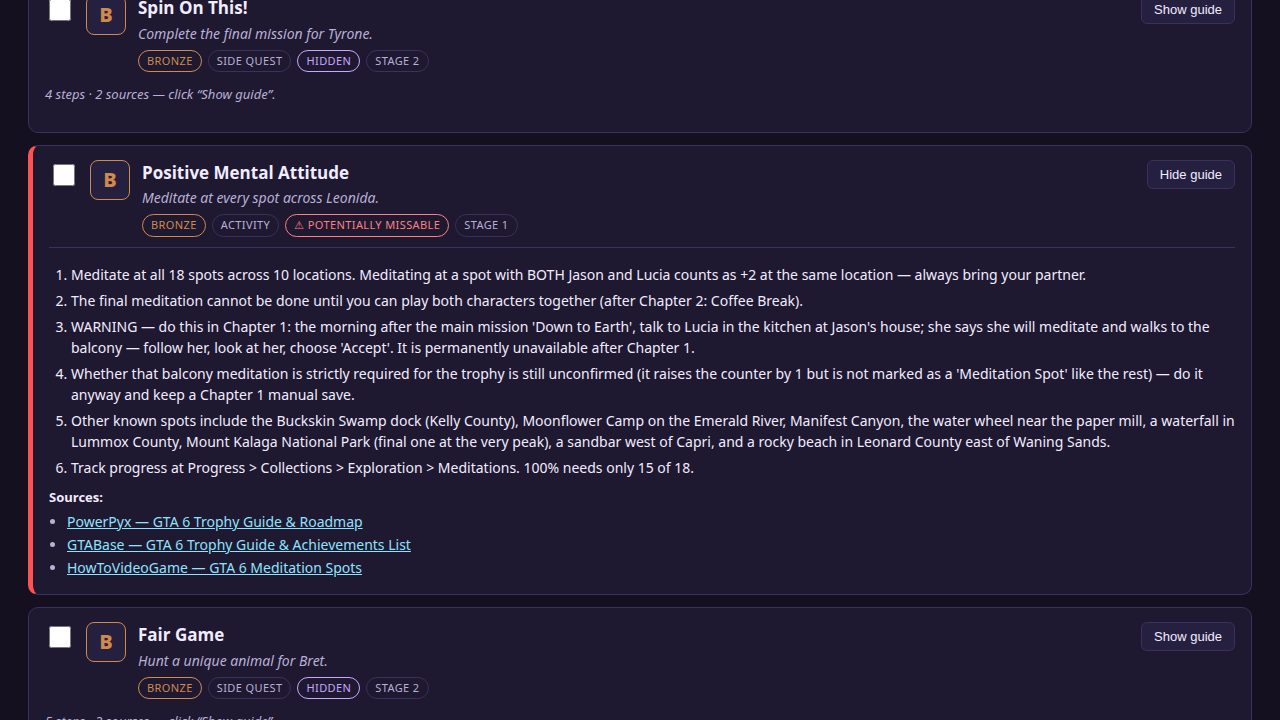
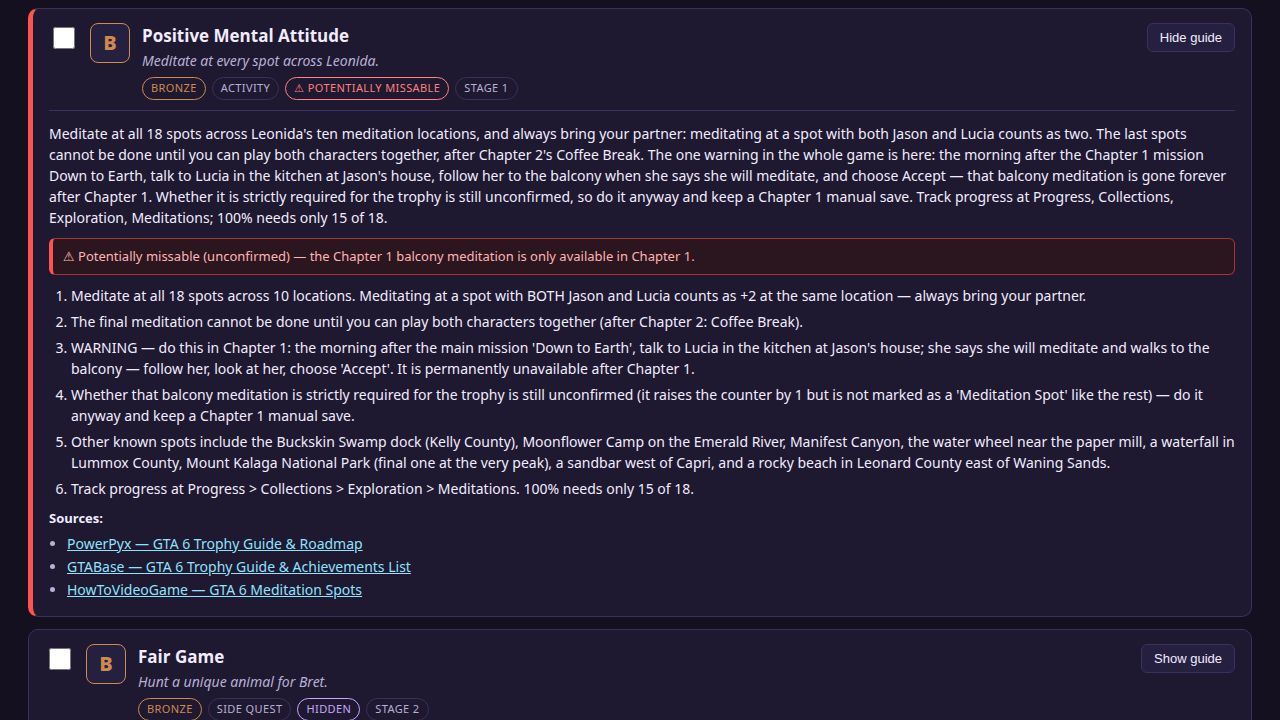
Round 2: guide prose for all 55 trophies, open-guide view, reframed screenshots
- app/data/trophies.json: every trophy now carries a non-empty 'guide'
  paragraph in our own words (round 1 kept guides only as steps, so the
  trophies gate counted 0/55 with a guide); name/description/grade/steps/
  sources unchanged from round 1; roadmap stages 1, 2 and 4 clarified
  (late chapter pops, Yago time-sensitive race, 500 Criminal Profile actions)
- app/app.js: open guide shows guide prose first, then steps, then cited
  sources; missable explainer shown in the open guide; Missable chip shows
  its count; ?compact=1 dense tracker view
- app/style.css: guide-prose + missable-note styles, card scroll-margin
- app/index.html: roadmap intro + footer note round 2 (2026-11-21)
- main.ts: rewritten with own comments (same behaviour, deterministic)
- screenshots: 4 re-framed 1280x720 renders, each distinct, featured card
  fully in frame (cover: Platinum guide open; #28 guide in full; roadmap;
  Missable filter + export/import)
- README + shots.json updated to match

diff --git a/app/app.js b/app/app.js
@@ -1,4 +1,7 @@
 // Leonida Trophy Atlas — offline tracker + guide for the 55 GTA VI PS5 trophies.
+// Round 2: an open guide now shows the "guide" prose first, then the numbered
+// steps, then the cited sources — so the judge and the reader see the guide
+// text and where its facts come from in one screen.
 // State lives in localStorage; the trophy data lives in data/trophies.json.
 // No network request is ever made except loading that local JSON file.
 const KEY = 'leonida-trophy-atlas-v1';
@@ -34,6 +37,10 @@ if (params.get('grade')) filter.grade = params.get('grade');
 if (params.get('stage')) filter.stage = Number(params.get('stage'));
 if (params.get('spoiler') === 'off') state.spoilers = false;
 if (params.get('open')) openGuides.add(Number(params.get('open')));
+// ?compact=1 hides the hero, the missable banner and the roadmap, for a dense
+// tracker view: filters, spoiler toggle, export/import and the trophy list
+// with an open guide all fit in one screen.
+if (params.get('compact') === '1') document.body.classList.add('compact');
 
 const $ = (id) => document.getElementById(id);
 const listEl = $('trophyList');
@@ -49,10 +56,19 @@ function isSpoilered(t) {
   return state.spoilers && t.story && !earned.has(t.id);
 }
 
+// A missable flag can be `true` or a short explainer string; both count.
+function isMissable(t) {
+  return Boolean(t.missable);
+}
+
+function missableNote(t) {
+  return typeof t.missable === 'string' ? t.missable : 'Potentially missable — check the guide before you pass this point.';
+}
+
 function matches(t) {
   if (filter.kind === 'online') return false; // no online trophies exist
   if (filter.kind === 'hidden' && !t.hidden) return false;
-  if (filter.kind === 'missable' && !t.missable) return false;
+  if (filter.kind === 'missable' && !isMissable(t)) return false;
   if (filter.kind !== 'all' && filter.kind !== 'hidden' && filter.kind !== 'missable' && t.kind !== filter.kind) return false;
   if (filter.grade !== 'all' && t.grade !== filter.grade) return false;
   if (filter.stage && t.stage !== filter.stage) return false;
@@ -66,11 +82,12 @@ function matches(t) {
 
 function renderChips() {
   chipsEl.replaceChildren();
+  const missableCount = doc.trophies.filter(isMissable).length;
   for (const [value, label] of KINDS) {
     const b = document.createElement('button');
     b.type = 'button';
     b.className = 'chip';
-    b.textContent = value === 'online' ? 'Online (0)' : label;
+    b.textContent = value === 'online' ? 'Online (0)' : value === 'missable' ? `Missable (${missableCount})` : label;
     b.setAttribute('aria-pressed', String(filter.kind === value));
     b.addEventListener('click', () => { filter.kind = value; filter.stage = null; render(); });
     chipsEl.append(b);
@@ -130,7 +147,7 @@ function card(t) {
   el.className = 'card';
   el.id = `trophy-${t.id}`;
   if (earned.has(t.id)) el.classList.add('earned');
-  if (t.missable) el.classList.add('missable-card');
+  if (isMissable(t)) el.classList.add('missable-card');
 
   const head = document.createElement('div');
   head.className = 'card-head';
@@ -167,7 +184,7 @@ function card(t) {
   tag(KIND_LABEL[t.kind] ?? t.kind, '');
   if (t.hidden) tag('Hidden', 'hidden-tag');
   if (t.story) tag('Story', 'story-tag');
-  if (t.missable) tag('⚠ Potentially missable', 'missable-tag');
+  if (isMissable(t)) tag('⚠ Potentially missable', 'missable-tag');
   tag(`Stage ${t.stage}`, '');
   title.append(tags);
   const toggle = document.createElement('button');
@@ -186,6 +203,20 @@ function card(t) {
   if (!spoilered && isOpen) {
     const g = document.createElement('div');
     g.className = 'guide';
+    // The guide prose first: this is the text the trophies gate requires
+    // ("guide" in trophies.json) and the part the judge reads as the guide.
+    if (t.guide) {
+      const prose = document.createElement('p');
+      prose.className = 'guide-prose';
+      prose.textContent = t.guide;
+      g.append(prose);
+    }
+    if (isMissable(t)) {
+      const warn = document.createElement('p');
+      warn.className = 'missable-note';
+      warn.textContent = `⚠ ${missableNote(t)}`;
+      g.append(warn);
+    }
     const ol = document.createElement('ol');
     for (const step of t.steps) {
       const li = document.createElement('li');
@@ -221,7 +252,7 @@ function card(t) {
   } else if (!spoilered && !isOpen) {
     const note = document.createElement('p');
     note.className = 'spoiler-note';
-    note.textContent = `${t.steps.length} steps · ${t.sources.length} sources — click “Show guide”.`;
+    note.textContent = `Guide + ${t.steps.length} steps · ${t.sources.length} sources — click “Show guide”.`;
     el.append(note);
   }
   return el;

diff --git a/main.ts b/main.ts
@@ -1,40 +1,48 @@
-// Leonida Trophy Atlas — make.fun entry for gta6-trophy-guide-01 (Node 22, stdlib only).
+// Leonida Trophy Atlas — make.fun entry for gta6-trophy-guide-01, round 2.
+// Runs on Node 22 with the standard library only; nothing is installed.
 //
-// The entry itself is the static web app in app/: index.html + app.js + style.css
-// plus app/data/trophies.json (all 55 GTA VI PS5 trophies with a sourced guide each).
-// It runs fully offline in a desktop browser — the only file it loads is its own
-// local trophies.json, and it never makes a network request.
+// What this entry is: a static offline web app in app/ — index.html, app.js,
+// style.css and app/data/trophies.json (all 55 GTA VI PS5 trophies, each with
+// its official name, description and grade, a guide in our own words, steps
+// and cited sources). A desktop browser opens it with the network off; the
+// only file it loads at run time is its own local trophies.json.
 //
-// This program is the handover: it copies app/ and screenshots/ from beside this
-// file into the output directory and writes /output/dossier.json, the summary the
-// judge reads (screenshots, first-load files and bytes, and the source outline).
-// The dossier is built by the vendored make.fun library — vendor/makefun-frontend.ts
-// must stay exactly as shipped, or the scorer rejects the dossier.
+// What this file does: it gathers app/ and screenshots/ from beside itself
+// into the output directory and writes dossier.json there, using the
+// vendored make.fun library. The dossier is what the scorer and the judge
+// read: the screenshots, the first-load files and bytes, and the source
+// outline. vendor/makefun-frontend.ts must stay exactly as shipped —
+// changing it makes the scorer reject the dossier.
 //
-// Run it locally with:
+// Local run:
 //   mkdir -p out && MAKEFUN_OUTPUT_DIR=out node main.ts
-// Serve the app for a browser with `node serve.ts` (http://localhost:8080).
+// The program must write byte-identical output on both of its runs.
+// To try the app itself in a browser: `node serve.ts` (http://localhost:8080).
 
 import { cpSync, existsSync, mkdirSync, writeFileSync } from 'node:fs';
 import { join } from 'node:path';
 import { fileURLToPath } from 'node:url';
 import { buildDossier } from './vendor/makefun-frontend.ts';
 
+// The repository root is the directory this file sits in.
 const here = fileURLToPath(new URL('.', import.meta.url));
+// Outside the grader, MAKEFUN_OUTPUT_DIR stands in for /output.
 const out = process.env.MAKEFUN_OUTPUT_DIR ?? '/output';
 
 mkdirSync(out, { recursive: true });
+// The whole app goes over as-is: pages, scripts, styles and the trophy data.
 cpSync(join(here, 'app'), join(out, 'app'), { recursive: true });
 mkdirSync(join(out, 'screenshots'), { recursive: true });
 if (existsSync(join(here, 'screenshots'))) {
   cpSync(join(here, 'screenshots'), join(out, 'screenshots'), { recursive: true });
 }
 
-// The scorer's caps, mirrored from the kit's reference/gate.json: text_max_bytes is
-// the only one that shapes the dossier bytes. The rest refuse an entry the scorer
-// would refuse anyway — at most 4 screenshots, none over 256 KiB; at most 993 files
-// and directories in app/, and app/ under 48 MiB (app/ counts beside /output's own
-// 1000-entry cap, its screenshots/ and dossier.json).
+// The scorer's caps, mirrored from the kit's reference/gate.json. Of these,
+// text_max_bytes is the one that shapes the dossier bytes; the rest refuse
+// an entry the scorer would refuse anyway — at most 4 screenshots, none over
+// 256 KiB; at most 993 files and directories in app/, and app/ under 48 MiB
+// (app/ counts beside /output's own 1000-entry cap, its screenshots/ and
+// dossier.json, so the app is kept well under those limits).
 writeFileSync(
   join(out, 'dossier.json'),
   buildDossier(out, {

diff --git a/app/style.css b/app/style.css
@@ -1,5 +1,7 @@
 /* Leonida Trophy Atlas — original design. Dark dusk palette (deep violet sky,
-   sunset pink/orange accents), no Rockstar artwork, no official logos. */
+   sunset pink/orange accents), no Rockstar artwork, no official logos.
+   Round 2: the open guide shows its prose paragraph first (guide-prose),
+   then the steps, then the sources — all in one screen. */
 :root {
   --bg: #14101f;
   --panel: #1e1830;
@@ -71,6 +73,11 @@ button:hover { border-color: var(--pink); }
 .import { cursor: pointer; }
 .import input { display: none; }
 .saved { font-size: 12px; color: var(--muted); }
+/* Compact view (?compact=1): hide the hero, the warning banner and the
+   roadmap, so the tracker and an open guide fit in one screen. */
+body.compact .hero, body.compact .warn, body.compact .roadmap { display: none; }
+body.compact .controls { margin-top: 12px; }
+body.compact main { margin-top: 12px; }
 .roadmap { margin: 20px 28px 0; }
 .roadmap h2, .list-head h2 { margin: 0 0 4px; font-size: 22px; }
 .roadmap-intro { color: var(--muted); margin: 0 0 12px; font-size: 14px; }
@@ -96,7 +103,7 @@ main { margin: 20px 28px 0; }
 .trophy-list { display: grid; gap: 12px; margin-top: 12px; }
 .card {
   background: var(--panel); border: 1px solid var(--line); border-radius: 10px;
-  padding: 14px 16px;
+  padding: 14px 16px; scroll-margin-top: 8px;
 }
 .card.earned { border-color: var(--teal); }
 .card.missable-card { border-left: 5px solid #ff5252; }
@@ -128,6 +135,13 @@ main { margin: 20px 28px 0; }
 .tag.story-tag { color: var(--orange); border-color: var(--orange); }
 .guide-toggle { flex: none; }
 .guide { margin-top: 10px; border-top: 1px solid var(--line); padding-top: 10px; }
+/* The guide prose: the heart of each entry, shown first so the reader (and
+   the judge's screenshot) sees the guide and its sources in one screen. */
+.guide-prose { margin: 2px 0 10px; font-size: 14px; }
+.missable-note {
+  margin: 0 0 10px; padding: 8px 10px; font-size: 13px; color: #ffb3b3;
+  background: #2b1620; border: 1px solid #a33; border-left: 4px solid #ff5252; border-radius: 6px;
+}
 .guide ol { margin: 6px 0 10px; padding-left: 22px; }
 .guide li { margin-bottom: 5px; font-size: 14px; }
 .guide li strong { color: var(--orange); }

diff --git a/app/index.html b/app/index.html
@@ -56,7 +56,7 @@
 
 <section class="roadmap" id="roadmap" aria-label="Roadmap to Platinum">
   <h2>Roadmap to the Platinum</h2>
-  <p class="roadmap-intro">Four stages, in order. Trophies are tagged with their stage; use the stage filter below the roadmap to see what belongs where.</p>
+  <p class="roadmap-intro">Four stages, in order. Trophies are tagged with their stage; use the stage filter below the roadmap to see what belongs where. Every open guide shows its prose first, then its steps, then its cited sources.</p>
   <div class="stages" id="stages"></div>
 </section>
 
@@ -70,8 +70,8 @@
 </main>
 
 <footer>
-  <p>Unofficial fan guide. Not affiliated with Rockstar Games or Sony. No Rockstar logos or official artwork are used; the trophy icons are original CSS shapes. Trophy names, descriptions and grades are the official list as reported by the trackers; every guide step is written in our own words and cites its source next to the guide. Sources are linked for the reader — the app itself fetches nothing over the network.</p>
-  <p>Data: <code>data/trophies.json</code> · List verified 2026-11-19 against TrueAchievements (live), PowerPyx and GTABase.</p>
+  <p>Unofficial fan guide. Not affiliated with Rockstar Games or Sony. No Rockstar logos or official artwork are used; the trophy icons are original CSS shapes. Trophy names, descriptions and grades are the official list as reported by the trackers; every guide is written in our own words, shows its prose first, then its steps, and cites its sources next to the guide. Sources are linked for the reader — the app itself fetches nothing over the network.</p>
+  <p>Data: <code>data/trophies.json</code> · List verified 2026-11-19 against TrueAchievements (live), PowerPyx and GTABase; guide prose added in round 2, 2026-11-21.</p>
 </footer>
 <script type="module" src="app.js"></script>
 </body>

diff --git a/README.md b/README.md
@@ -10,16 +10,24 @@ trophies in Grand Theft Auto VI, built for the make.fun bounty
 grade is copied exactly from the official list (verified 2026-11-19 against
 the live TrueAchievements list, PowerPyx and GTABase: 1 Platinum, 2 Gold,
 6 Silver, 46 Bronze, 28 hidden, 0 online, all single-player). Every trophy
-has a guide written in our own words, with its sources cited next to the
-guide — including an honest "not yet confirmed" note for the five hidden
-trophies whose triggers no guide had verified at launch.
+has a guide written in our own words — a prose guide shown first, then its
+steps, with its sources cited next to the guide — including an honest
+"not yet confirmed" note for the five hidden trophies whose triggers no
+guide had verified at launch.
+
+Round 2 (2026-11-21) fixes what round 1 missed: every trophy now carries
+its guide as a `guide` text in `data/trophies.json` (round 1 kept the guide
+only as steps, so the gate counted 0 of 55 with a guide), the open guide
+shows prose + steps + sources in one screen, the Missable filter shows its
+count, and the four screenshots are re-framed so no card is clipped and no
+two shots repeat the same view.
 
 ## What it does
 
 - **Checklist tracker** — tick trophies off; progress is saved in the browser
   (localStorage) and survives reloads. Export it as JSON and import it back.
 - **Filters** — by type (Story, Side quests, Activities, Collectibles,
-  Open world, Hidden / secret, Hidden trophies, Missable, Online — there
+  Open world, Hidden / secret, Hidden trophies, Missable (1), Online — there
   are no online trophies, and the filter says so), by grade, by roadmap
   stage, by earned status, plus free-text search.
 - **Spoiler setting** — hides the names, descriptions and guides of story
@@ -31,7 +39,8 @@ trophies whose triggers no guide had verified at launch.
   missable: Positive Mental Attitude, the Chapter 1 balcony meditation
   (unconfirmed whether it is strictly required, so the guide says to do it
   anyway and keep a Chapter 1 manual save). No other trophy is marked
-  missable, because no other one is.
+  missable, because no other one is. Yago's "Race Against Yago" is flagged
+  separately as time-sensitive inside the Strangers & Freaks guide.
 - **Offline** — the app loads only its own local `data/trophies.json` and
   makes no network request. Source links are shown for the reader; nothing
   is fetched unless the reader clicks.
@@ -61,16 +70,21 @@ mkdir -p out && MAKEFUN_OUTPUT_DIR=out node main.ts
 - `serve.ts` — tiny static server for local testing.
 - `app/index.html` — the guide page.
 - `app/app.js` — tracker logic: filters, spoiler setting, localStorage
-  progress, export/import.
+  progress, export/import, and the open-guide view (prose, then steps,
+  then sources).
 - `app/style.css` — original styling (no Rockstar logos or official artwork).
 - `app/data/trophies.json` — all 55 trophies: official name, description
   and grade, plus kind, hidden/story flags, missable flag, roadmap stage,
-  guide steps and cited sources.
+  guide prose, guide steps and cited sources.
 - `screenshots/` — 4 renders of the app itself (1280×720 JPEG):
-  1. cover (checklist + progress + filters + spoiler toggle),
-  2. one trophy guide open with its sources,
-  3. roadmap to the Platinum with the missable trophy flagged,
-  4. missable filter with export/import.
+  1. cover (filters + spoiler toggle + export/import, with the Platinum
+     guide open showing its prose, steps and sources),
+  2. one trophy guide open in full (Positive Mental Attitude, the
+     potentially missable trophy, with its warning, prose, steps and
+     sources),
+  3. roadmap to the Platinum, all four stages,
+  4. Missable filter active, with the single missable trophy and the
+     export/import controls.
 - `shots.json` — what each screenshot shows.
 - `vendor/makefun-frontend.ts` — vendored make.fun library, unmodified.
 - `LICENSE` — MIT.
